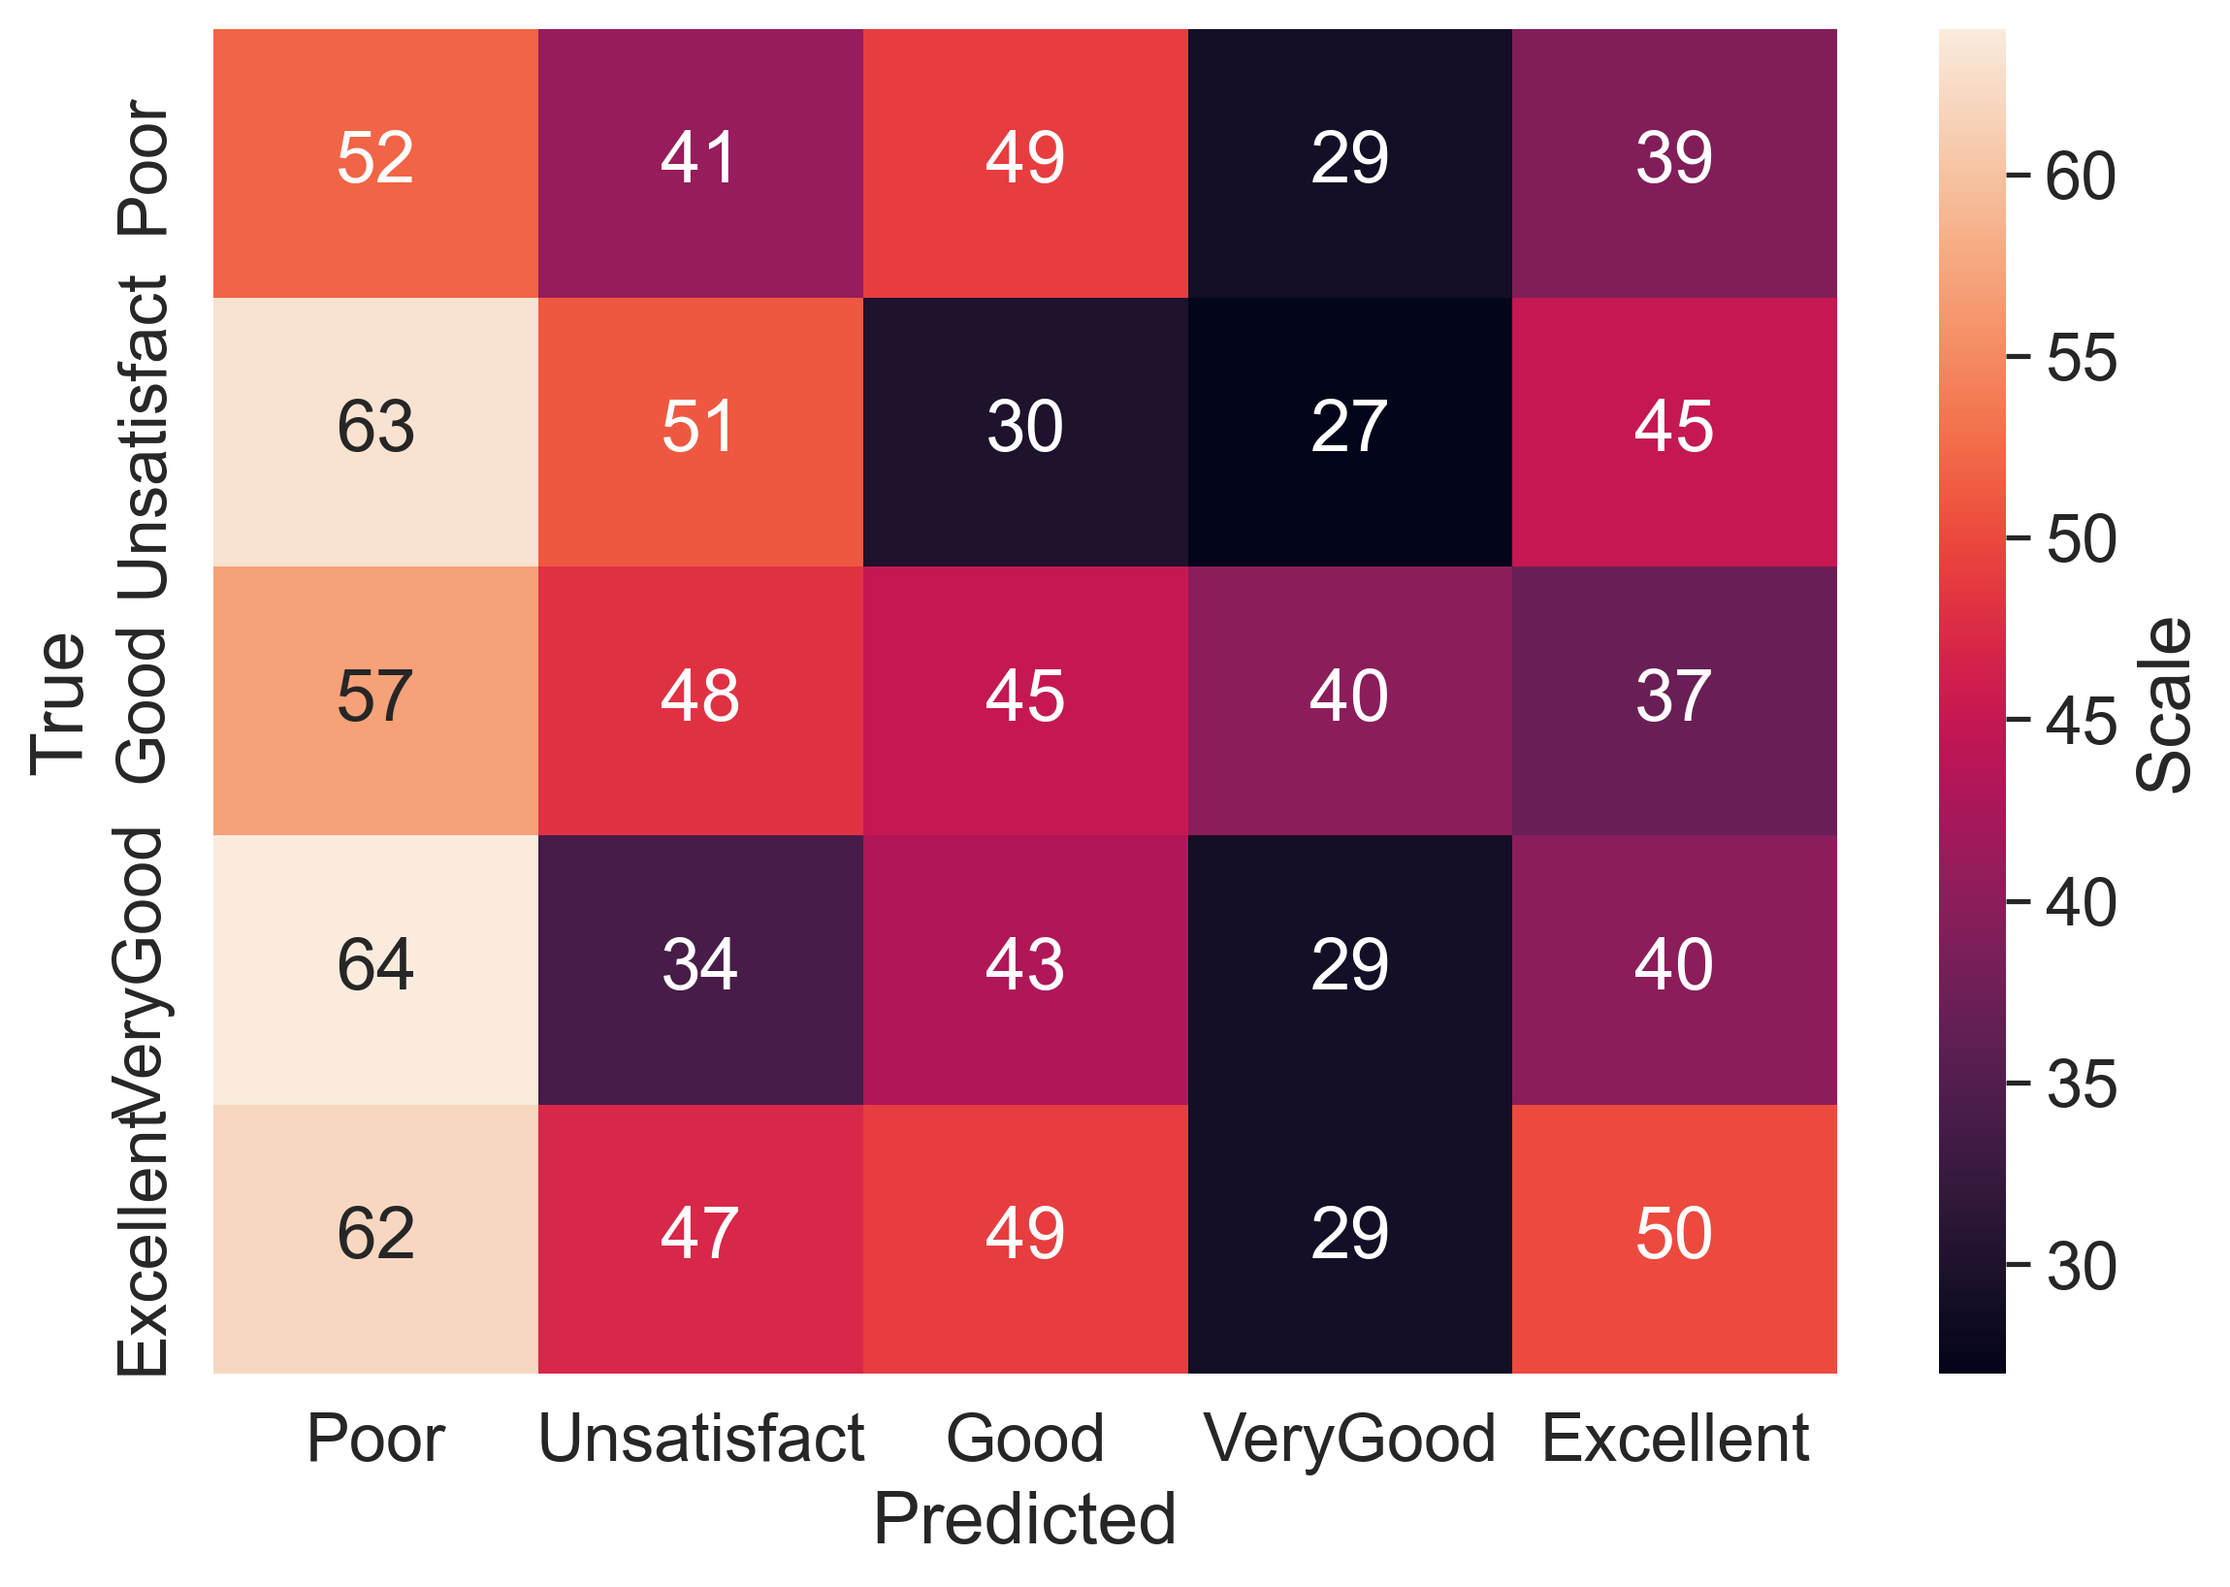
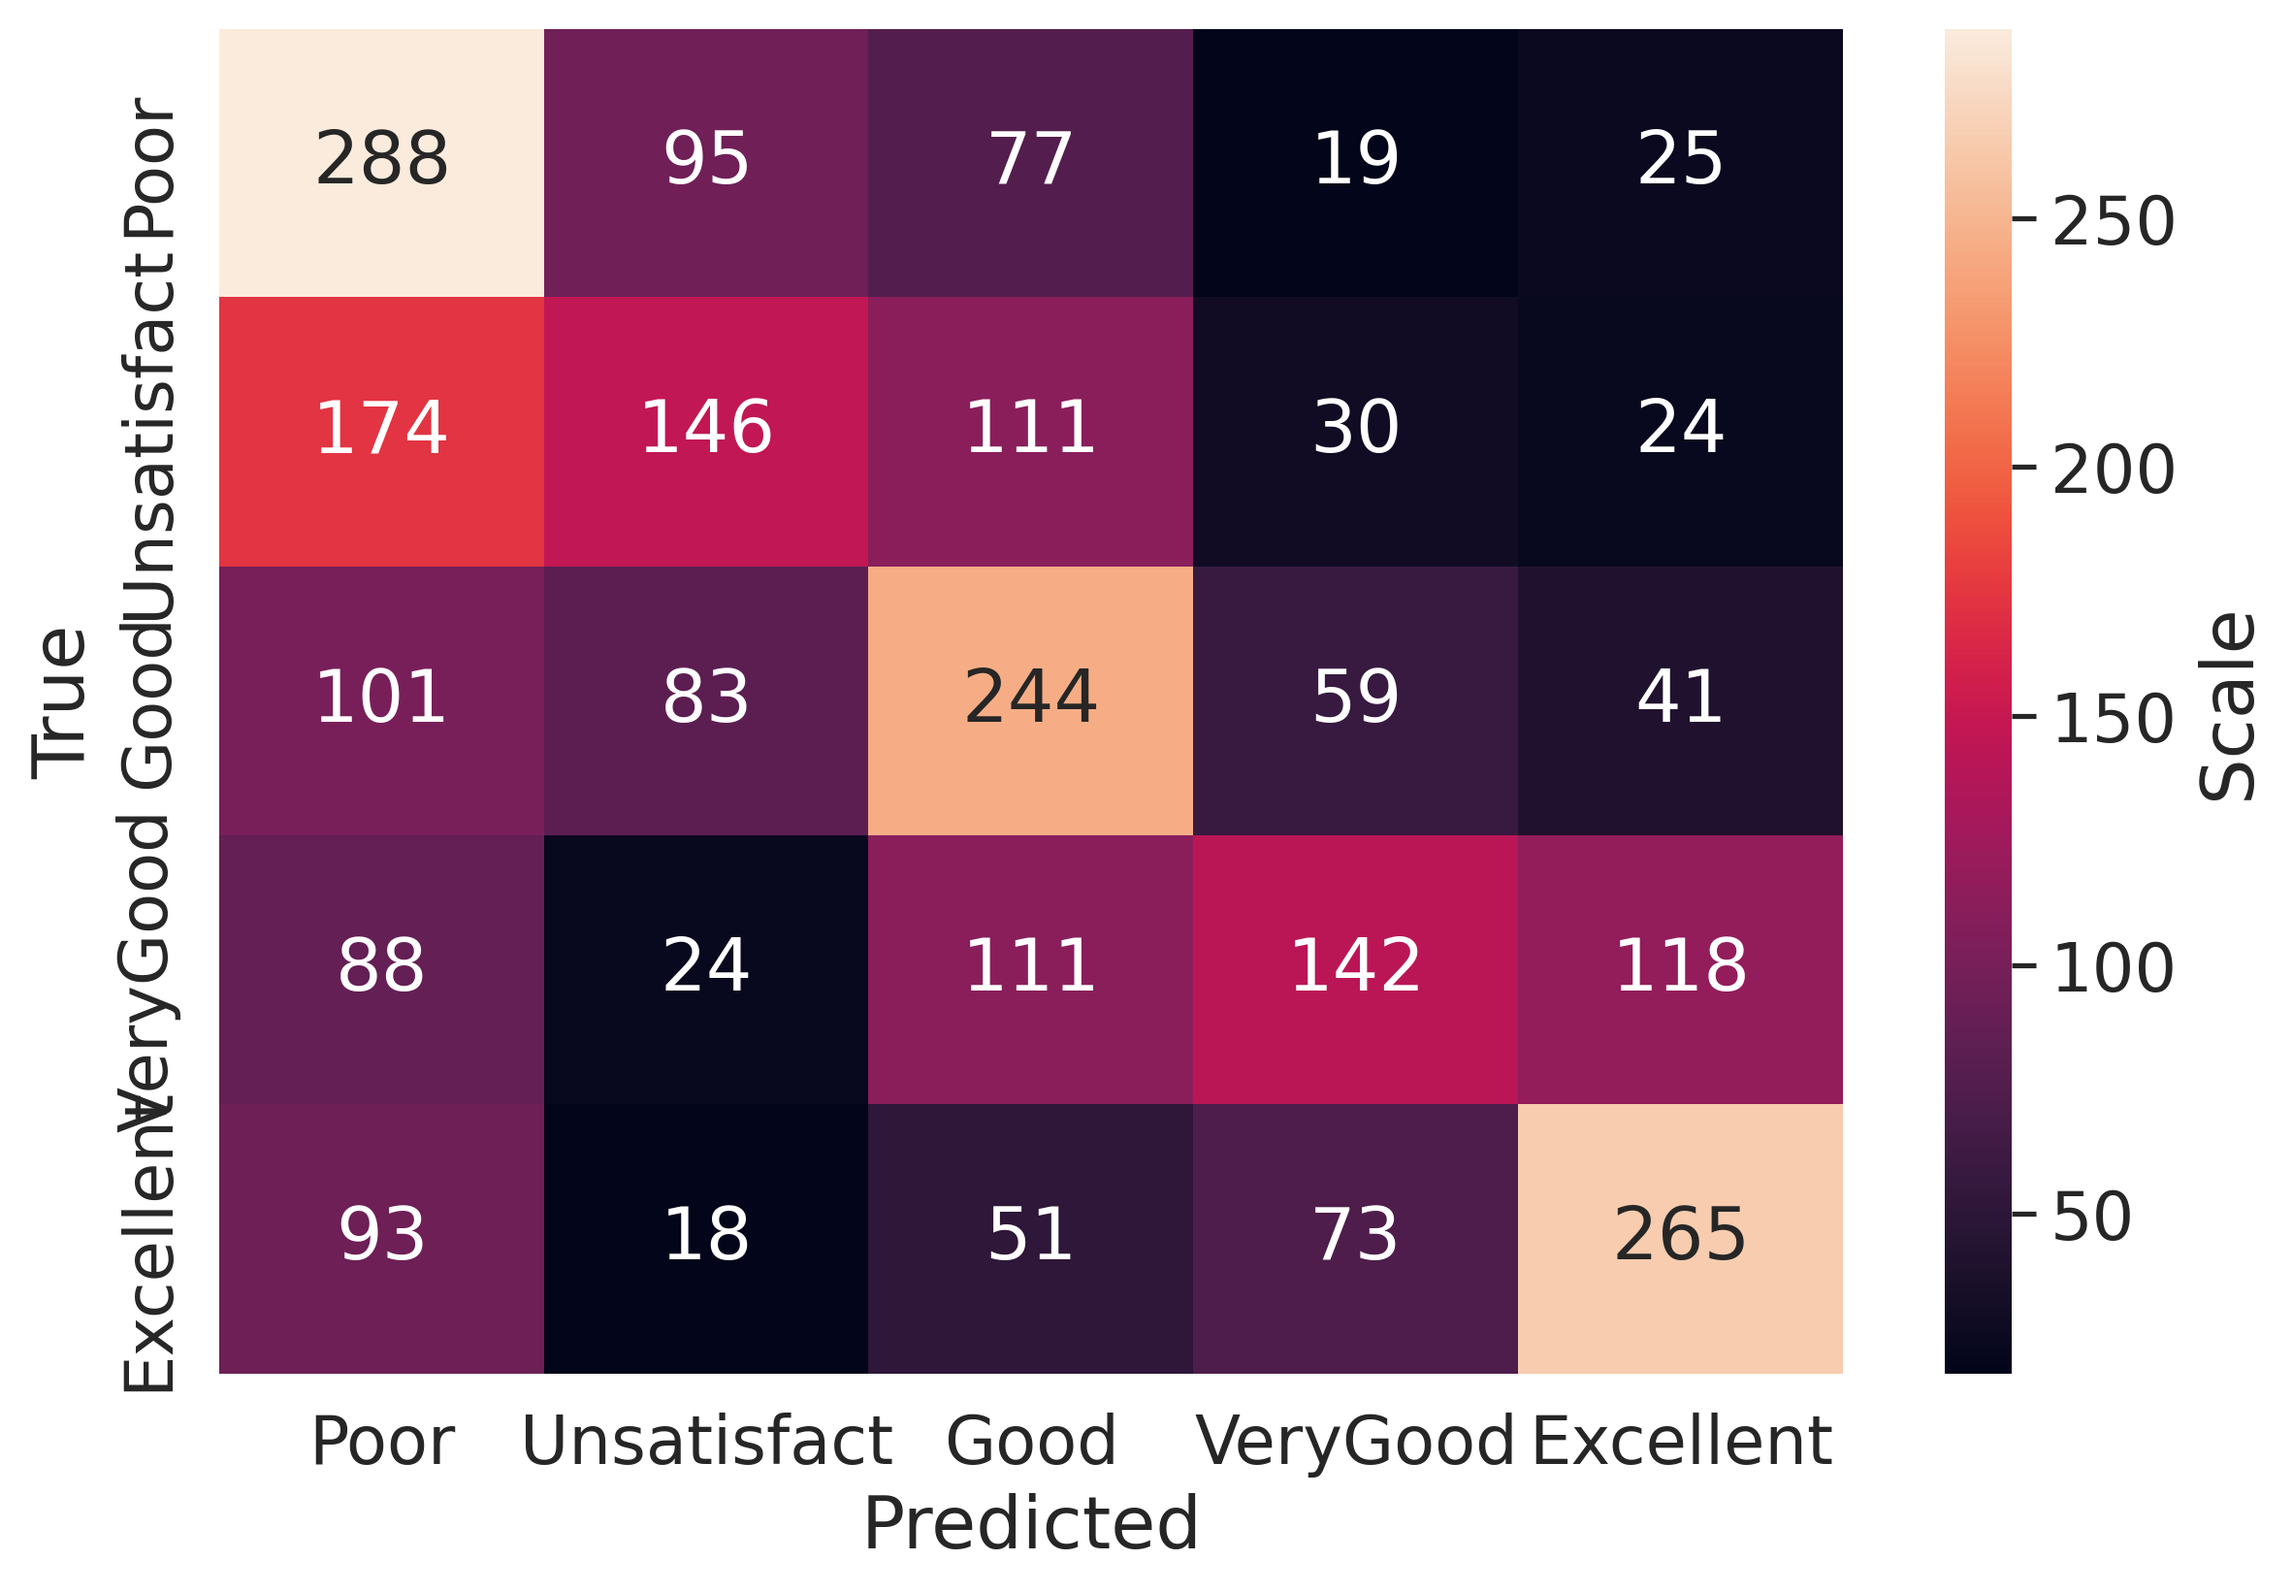
Small fixes

diff --git a/reviews.py b/reviews.py
@@ -9,6 +9,7 @@ from sklearn.feature_extraction.text import CountVectorizer
 from sklearn import svm
 from sklearn.model_selection import cross_val_predict
 from sklearn.metrics import confusion_matrix
+from sklearn.metrics import accuracy_score
 import seaborn
 import matplotlib.pyplot as plt
 import argparse
@@ -176,29 +177,32 @@ def main(args):
     #print("Cross Validation Scores: ", scores)
     #print("Average CV Score: ", scores.mean())
 
-    x_train, x_test, y_train, y_test = train_test_split(x, y, test_size=0.11, random_state=43)
+    x_train, x_test, y_train, y_test = train_test_split(x, y, test_size=0.25, random_state=43)
 
     clf = svm.SVC(C=1).fit(x_train, y_train)
     #clf.score(x_test, y_test)
 
-    scores = cross_val_score(clf, x, y, cv=5)
-    y_pred = cross_val_predict(clf, x, y, cv=5)
+    scores = cross_val_score(clf, x_test, y_test, cv=5)
+    y_pred = cross_val_predict(clf, x_test, y_test, cv=5)
 
+    acc = accuracy_score(y_test, y_pred)*100
+    print("Accuracy Score: ", acc)
+    
     #print("Average CV Score: ", scores.mean())
 
     pred_test = clf.predict(count_matrix_test)
-    for i in range(len(pred_test)):
-        if i == len(pred_test)-1:
-            print(pred_test[i], end="")
-        else:
-            print(pred_test[i])
+    # for i in range(len(pred_test)):
+    #     if i == len(pred_test)-1:
+    #         print(pred_test[i], end="")
+    #     else:
+    #         print(pred_test[i])
 
     # define labels
     labels = ["Poor", "Unsatisfact", "Good", "VeryGood", "Excellent"]
     
     # create confusion matrix
-    #confusionMatrix = getConfusionMatrix(y_test, y_pred)
-    #plot_confusion_matrix(confusionMatrix, labels, "CVwSVM-478.png")
+    confusionMatrix = getConfusionMatrix(y_test, y_pred)
+    plot_confusion_matrix(confusionMatrix, labels, "CVwSVM-478.png")
 
     # Naive Bayes - scikit-learn library
 
